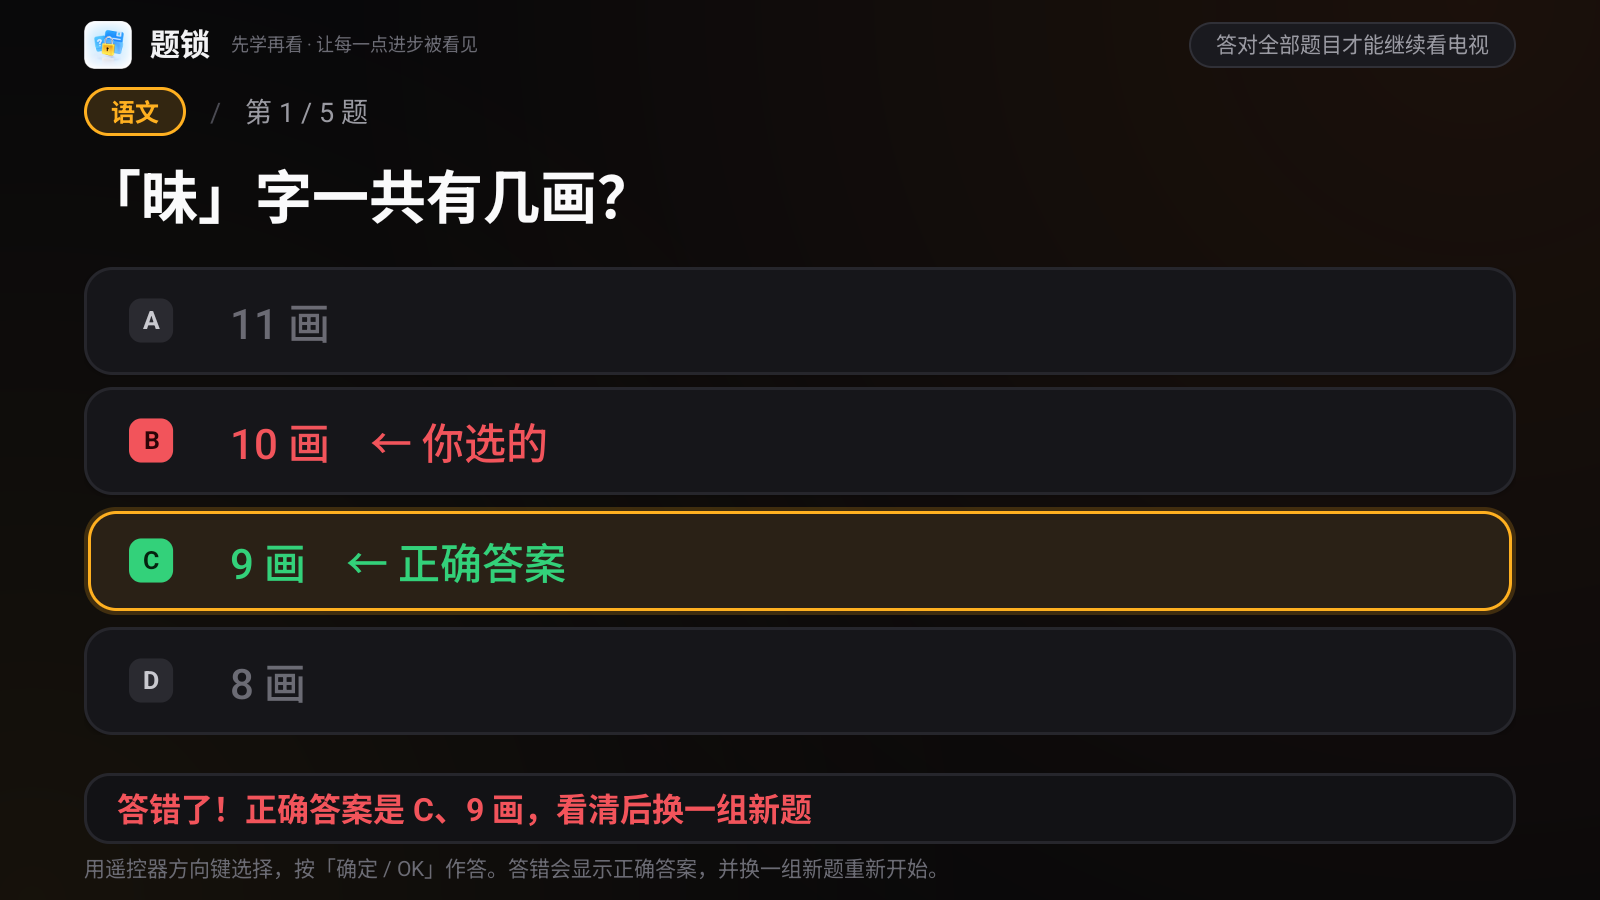
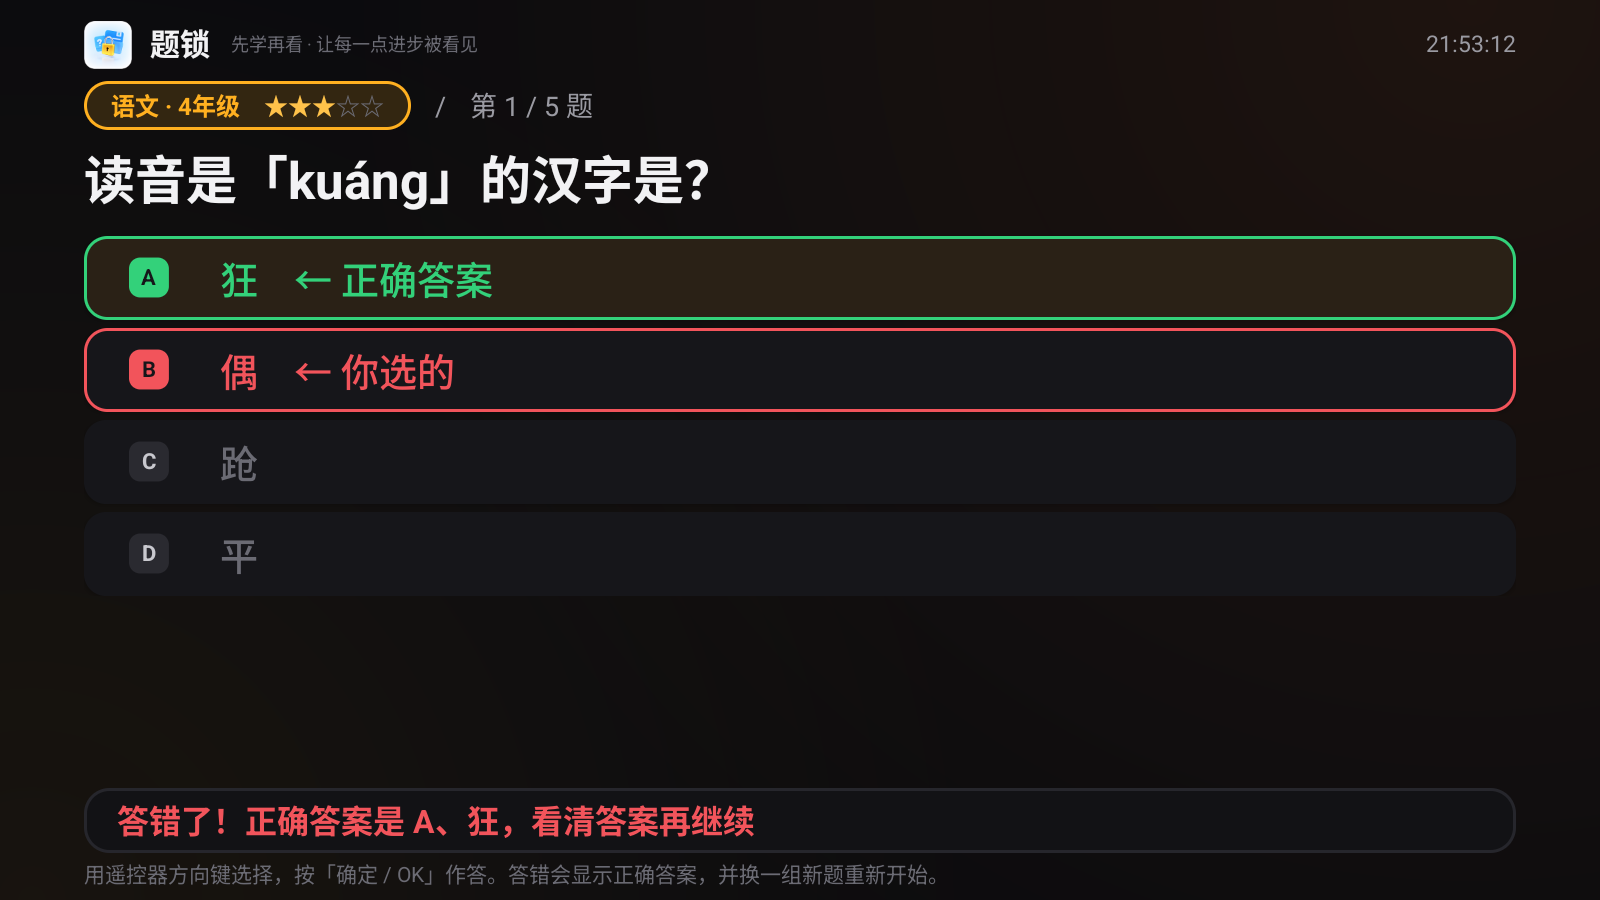
v1.8.2 答案选项默认无边框 + 圆角收小，仅选中项描边
1) Theme.optionBackground：默认态不再描边（linePx=0），圆角 18dp → 10dp；
   新增 role 重载，揭示答案时正确项描绿框、错选项描红框，其余项保持无框
2) 新增 drawable/bg_quiz_option.xml 作为 inflate 兜底（无边框 + 10dp）；
   QuizOption 改用它，管理页/密码键盘的 bg_option 保持原样
3) QuizActivity.setOptionText 把角色传给背景，换配色时重画仍按角色上色
4) ThemeTest 重写：逐套配色断言「默认无描边、聚焦/按下有描边、圆角一致」，
   并核对 ok/bad 描边色取自当前色板；单测 207 → 208 全绿
5) README 文案与两张答题页截图更新；INSTALL-ON-TV.md 补选项视觉与实现说明
6) 已覆盖安装到电视（192.168.3.15，code 45 / 1.8.2），图标隐藏状态保持

diff --git a/app/src/test/java/com/family/studytv/ThemeTest.java b/app/src/test/java/com/family/studytv/ThemeTest.java
@@ -94,35 +94,98 @@ public class ThemeTest {
         assertEquals(Theme.DEFAULT, Prefs.theme());
     }
 
+    /**
+     * v1.8.2 起答案项默认无边框、圆角 10dp，只有被选中（聚焦 / 按下）才描边。
+     * 这里逐套配色核对：默认态无描边、选中态有描边、三态圆角与边界完全一致。
+     */
     @Test
-    public void optionBordersAreAlignedAcrossAllStates() {
+    public void optionsHaveNoBorderUnlessSelected() throws Exception {
         View v = new View(RuntimeEnvironment.getApplication());
         for (String key : Theme.KEYS) {
-            assertAligned(key, Theme.optionBackground(v, Theme.of(key)));
+            assertBorderOnlyWhenFocused(key, Theme.optionBackground(v, Theme.of(key)));
         }
-        Drawable xml = RuntimeEnvironment.getApplication().getDrawable(R.drawable.bg_option);
+        Drawable xml = RuntimeEnvironment.getApplication().getDrawable(R.drawable.bg_quiz_option);
         assertTrue("XML 版选项背景也应是三态 selector", xml instanceof StateListDrawable);
-        assertAligned("bg_option.xml", (StateListDrawable) xml);
+        assertBorderOnlyWhenFocused("bg_quiz_option.xml", (StateListDrawable) xml);
     }
 
-    /** 三态同边界、同内边距、都是单层卡片；一旦有人再套内缩光晕层，这里会失败 */
-    private static void assertAligned(String label, StateListDrawable s) {
+    /** 状态顺序固定为：聚焦(0) / 按下(1) / 默认(2)，与 optionBackground 的添加顺序一致 */
+    private static void assertBorderOnlyWhenFocused(String label, StateListDrawable s)
+            throws Exception {
         assertEquals(label + " 应有聚焦/按下/默认三态", 3, s.getStateCount());
-        Rect firstPad = null;
+
+        float radius = -1f;
         for (int i = 0; i < s.getStateCount(); i++) {
             Drawable d = s.getStateDrawable(i);
             assertTrue(label + " 每态只能是单层圆角卡片，不能套光晕层",
                     d instanceof GradientDrawable);
-            d.setBounds(0, 0, 300, 90);
-            assertEquals(label + " 各态边界必须完全重合", new Rect(0, 0, 300, 90), d.getBounds());
-            Rect pad = new Rect();
-            d.getPadding(pad);
-            if (firstPad == null) {
-                firstPad = pad;
+            GradientDrawable g = (GradientDrawable) d;
+            g.setBounds(0, 0, 300, 90);
+            assertEquals(label + " 各态边界必须完全重合", new Rect(0, 0, 300, 90), g.getBounds());
+            if (radius < 0f) {
+                radius = g.getCornerRadius();
             } else {
-                assertEquals(label + " 各态内边距必须一致，选中时文字不位移", firstPad, pad);
+                assertEquals(label + " 各态圆角必须一致，选中时不能跳圆", radius,
+                        g.getCornerRadius(), 0.5f);
+            }
+            boolean framed = strokeWidth(g) > 0;
+            assertEquals(label + (i == 0 ? " 聚焦态必须描边" : i == 1
+                    ? " 按下态必须描边" : " 默认态不能有边框"), i <= 1, framed);
+        }
+        assertTrue(label + " 圆角应收到 10dp（比旧的 18dp 更小）", radius > 0f);
+    }
+
+    /** 揭示答案：正确项描绿、错选项描红，「变暗」的其它项保持无框 */
+    @Test
+    public void revealedOptionsCarryRoleBorderColor() throws Exception {
+        View v = new View(RuntimeEnvironment.getApplication());
+        for (String key : Theme.KEYS) {
+            Theme.Palette p = Theme.of(key);
+            assertEquals(key + " 正确项应是绿框", p.ok, strokeColor(Theme.optionBackground(v, p, "ok")));
+            assertEquals(key + " 错选项应是红框", p.bad, strokeColor(Theme.optionBackground(v, p, "bad")));
+            assertTrue(key + " 未选中的暗项不该有框",
+                    strokeWidth(plainOf(Theme.optionBackground(v, p, "dim"))) <= 0);
+        }
+    }
+
+    private static GradientDrawable plainOf(StateListDrawable s) {
+        return (GradientDrawable) s.getStateDrawable(2);
+    }
+
+    /** GradientDrawable 没有公开的描边读取接口，只能读内部字段（描边状态在 GradientState 里） */
+    private static int strokeWidth(GradientDrawable g) throws Exception {
+        Object state = field(g, "mGradientState");
+        return state instanceof Integer ? 0 : (Integer) field(state, "mStrokeWidth");
+    }
+
+    private static int strokeColor(StateListDrawable s) throws Exception {
+        GradientDrawable g = plainOf(s);
+        Object paint = null;
+        for (Object holder : new Object[]{field(g, "mGradientState"), g}) {
+            if (holder instanceof Integer) {
+                continue;
+            }
+            try {
+                paint = field(holder, "mStrokePaint");
+                break;
+            } catch (NoSuchFieldException ignored) {
             }
         }
+        return paint == null ? 0 : ((android.graphics.Paint) paint).getColor();
+    }
+
+    private static Object field(Object target, String name) throws Exception {
+        Class<?> c = target.getClass();
+        while (c != null) {
+            try {
+                java.lang.reflect.Field f = c.getDeclaredField(name);
+                f.setAccessible(true);
+                return f.get(target);
+            } catch (NoSuchFieldException e) {
+                c = c.getSuperclass();
+            }
+        }
+        throw new NoSuchFieldException(name);
     }
 
     @Test

diff --git a/app/src/main/java/com/family/studytv/Theme.java b/app/src/main/java/com/family/studytv/Theme.java
@@ -231,23 +231,52 @@ public final class Theme {
         return g;
     }
 
+    /** 选项圆角：v1.8.2 起 18dp → 10dp，去掉描边后大圆角会显得「药丸化」，收小更利落 */
+    private static final float OPTION_RADIUS_DP = 10f;
+
     /**
-     * 选项 / 按钮三态背景：默认、聚焦、按下。
+     * 选项三态背景：默认、聚焦（遥控器选中）、按下。
      *
-     * <p>三态必须共用同一边界、同一圆角、同一描边宽度：早期聚焦态先画一层外光，
-     * 再把带描边的卡片 inset 3dp，选中项的边框就比其它选项内缩 3dp、还多出一圈框，
-     * 遥控器上下移动时边框会跳。现在只换填充色与描边色，边框位置始终重合。
+     * <p>v1.8.2 起默认态**不画边框**，只留一层同色填充；只有被选中的项才高亮描边，
+     * 每道题视觉上就一条框，不再四框齐飞。三态的圆角与边界仍完全一致，
+     * 遥控器上下移动时框只换色、不跳位。
      */
     public static StateListDrawable optionBackground(View v, Palette p) {
+        return optionBackground(v, p, "");
+    }
+
+    /**
+     * 带角色的选项背景：揭示答案时正确项描绿、错选项描红（文字色之外再给一层框，
+     * 隔一米看电视也能一眼扫到）。普通态 / 「变暗」态一律无边框。
+     *
+     * @param role "ok"、"bad"，其余值按普通选项处理
+     */
+    public static StateListDrawable optionBackground(View v, Palette p, String role) {
         StateListDrawable s = new StateListDrawable();
-        int r = dp(v, 18);
+        int r = dp(v, OPTION_RADIUS_DP);
         int line = Math.max(1, dp(v, 2));
+
+        int mark = 0;
+        if ("ok".equals(role)) {
+            mark = p.ok;
+        } else if ("bad".equals(role)) {
+            mark = p.bad;
+        }
+        // 揭示态自己带框，颜色语义优先于焦点色：否则正确项一拿到焦点就被橙框盖掉
+        if (mark != 0) {
+            s.addState(new int[]{android.R.attr.state_focused},
+                    card(v, p.surfaceFocus, mark, r, line));
+            s.addState(new int[]{android.R.attr.state_pressed},
+                    card(v, p.surfaceFocus, mark, r, line));
+            s.addState(new int[]{}, card(v, p.surface, mark, r, line));
+            return s;
+        }
 
         s.addState(new int[]{android.R.attr.state_focused},
                 card(v, p.surfaceFocus, p.strokeFocus, r, line));
         s.addState(new int[]{android.R.attr.state_pressed},
                 card(v, p.surfaceFocus, p.accent, r, line));
-        s.addState(new int[]{}, card(v, p.surface, p.stroke, r, line));
+        s.addState(new int[]{}, card(v, p.surface, 0, r, 0));
         return s;
     }
 

diff --git a/app/src/main/java/com/family/studytv/QuizActivity.java b/app/src/main/java/com/family/studytv/QuizActivity.java
@@ -363,7 +363,8 @@ public class QuizActivity extends Activity {
         String r = role == null ? "" : role;
         b.setTag(new String[]{text, suffix == null ? "" : suffix, r});
         b.setTextColor(optionTextColor(r));
-        b.setBackground(Theme.optionBackground(b, theme));
+        // v1.8.2：默认无边框，只有选中项才有描边；答对/答错的项按角色描绿/描红
+        b.setBackground(Theme.optionBackground(b, theme, r));
         b.setText(optionText(b, k, text, suffix, theme));
     }
 

diff --git a/docs/INSTALL-ON-TV.md b/docs/INSTALL-ON-TV.md
@@ -463,3 +463,26 @@ Sony BRAVIA 4K GB ATV3 / Android 9 实测（v1.7.30）：
 
 - 锁屏页挡不住 `pm uninstall` 与恢复出厂设置，也挡不住家长本人在系统设置里操作。
 - 电视待机期间不锁：待机本来就看不到画面，唤醒后由 `ACTION_SCREEN_ON` 补上。
+
+### 答案选项视觉（v1.8.2）：默认无边框，只有选中项描边
+
+旧版四个选项各带一圈 2dp 描边、18dp 大圆角，四框并排时页面很吵。v1.8.2 改为：
+
+| 状态 | 外观 |
+|---|---|
+| 默认（未选中） | 只有一层卡片底色，**不画边框**，圆角 18dp → 10dp |
+| 选中（遥控器焦点 / 按下） | 亮出 2dp 描边 + 略亮的填充，仍然只有这一条框 |
+| 答错揭示 · 正确项 | 描绿框（2dp）+「← 正确答案」后缀 |
+| 答错揭示 · 错选项 | 描红框（2dp）+「← 你选的」后缀 |
+| 答错揭示 · 其它项 | 文字变暗、保持无框 |
+
+五套护眼配色（米绿 / 羊皮纸 / 豆沙绿 / 雾蓝灰 / 夜间墨黑）共用同一套画法，
+颜色全部取自 `Theme.Palette`，切风格时边框与填充一起换色，不会出现某套风格漏改。
+
+实现要点：
+
+- `Theme.optionBackground(view, palette, role)`：`role` 为 `ok` / `bad` 时描边取对应语义色，
+  其余（含揭示时的 `dim`）走普通三态；默认态 `card(..., linePx = 0)` 不设描边。
+- 三态圆角、边界完全一致，遥控器上下移动时框只换色不跳位（`ThemeTest` 逐套配色断言）。
+- `bg_quiz_option.xml` 是 inflate 瞬间的兜底外观，同样无边框 + 10dp 圆角；
+  管理页 / 密码键盘等按钮仍用原来的 `bg_option.xml`，不受影响。

diff --git a/README.md b/README.md
@@ -18,11 +18,11 @@
 
 ![题锁 · 家长信息页](docs/screenshots/tv-info-page.png)
 
-**答题弹窗** — 每轮 5 题，按设定年级从语数英题库抽取，选项顺序每次打乱；答错先显示正确答案再换一组新题，全对后自动退回电视画面。右上角常显当前系统时间（含秒），孩子自己看着表就知道还有多久。
+**答题弹窗** — 每轮 5 题，按设定年级从语数英题库抽取，选项顺序每次打乱；答错先显示正确答案再换一组新题，全对后自动退回电视画面。右上角常显当前系统时间（含秒），孩子自己看着表就知道还有多久。选项默认只留底色、**不画边框**（10dp 小圆角），只有遥控器选中的那一项才亮出描边，四个答案一眼看清层次。
 
 ![题锁 · 答题弹窗](docs/screenshots/tv-quiz.png)
 
-**答错反馈** — 正确项标绿、选错项标红，字母徽标同步变色，底部反馈卡片显示正确答案；反馈为空时卡片自动隐藏，四个选项同屏完整可见。
+**答错反馈** — 正确项描绿框、选错项描红框、其余选项保持无框，字母徽标同步变色，底部反馈卡片显示正确答案；反馈为空时卡片自动隐藏，四个选项同屏完整可见。
 
 ![题锁 · 答错反馈](docs/screenshots/tv-quiz-feedback.png)
 
